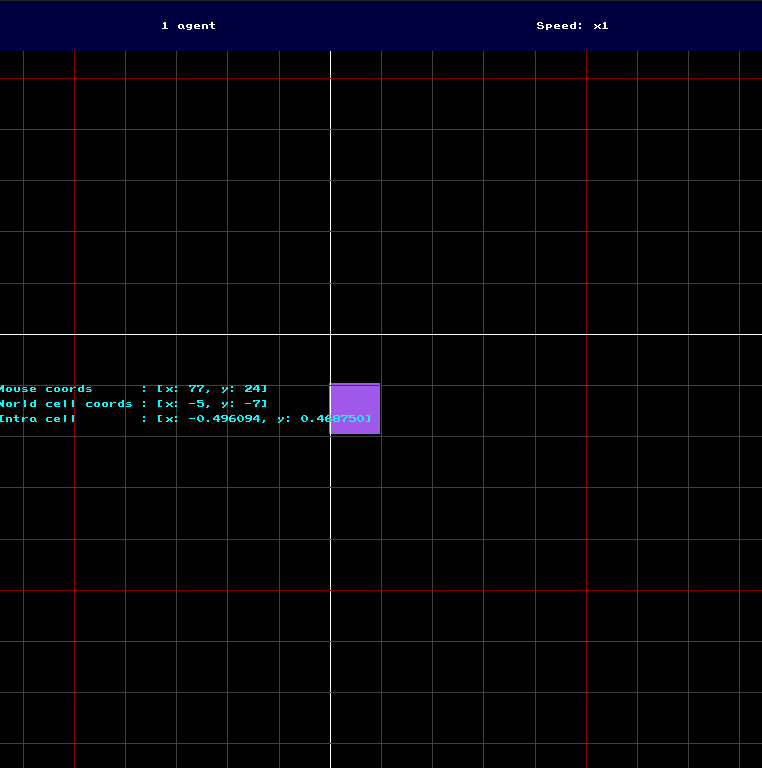
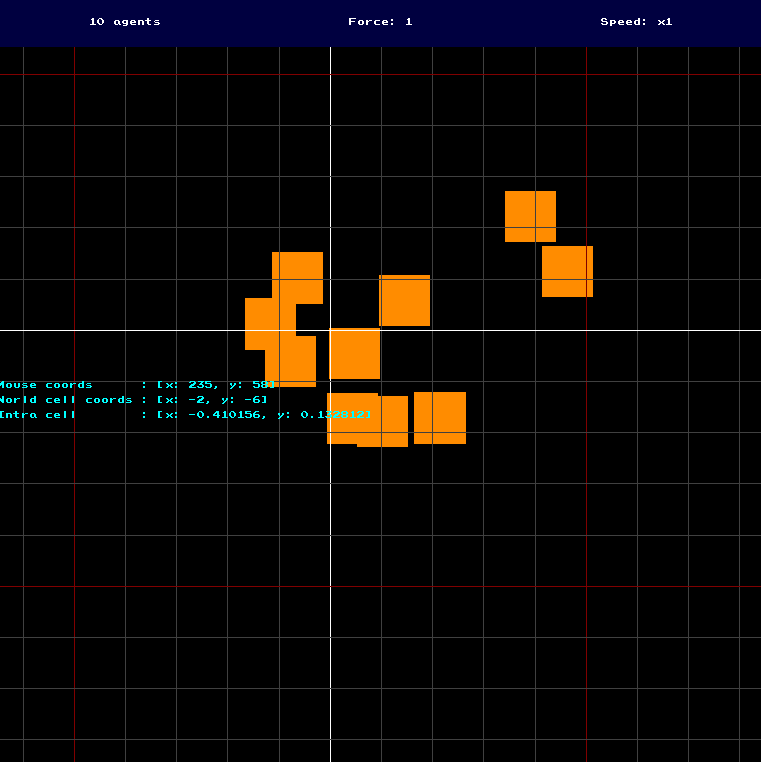
feat: Added attractiveness of elements in the world, the relevant menu and the README section

diff --git a/src/game/Game.cc b/src/game/Game.cc
@@ -10,6 +10,9 @@
 /// @brief - The maximum speed for the simulation.
 # define MAX_SIMULATION_SPEED 8.0f
 
+/// @brief - The maximum attractiveness for any object.
+# define MAX_ATTRACTIVENESS 8.0f
+
 namespace {
 
   pge::MenuShPtr
@@ -50,6 +53,7 @@ namespace pge {
         true,   // disabled
         false,  // terminated
         1.0f,   // speed
+        1.0f,   // attractiveness
       }
     ),
 
@@ -76,10 +80,17 @@ namespace pge {
     olc::vi2d pos;
     olc::vi2d dims(50, STATUS_MENU_HEIGHT);
     m_menus.count = generateMenu(pos, dims, "N/A agent(s)", "count");
+    m_menus.attractiveness = generateMenu(pos, dims, "Force: 1", "force", true);
     m_menus.speed = generateMenu(pos, dims, "Speed: x1", "speed", true);
 
     // Register menus in the parent.
     status->addMenu(m_menus.count);
+    status->addMenu(m_menus.attractiveness);
+    m_menus.attractiveness->setSimpleAction(
+      [this](Game& g) {
+        g.toggleAttractiveness();
+      }
+    );
     status->addMenu(m_menus.speed);
     m_menus.speed->setSimpleAction(
       [this](Game& g) {
@@ -116,8 +127,9 @@ namespace pge {
     }
 
     // Handle the creation of a new object.
-    log("Creating new attractor at " + p.toString(), utils::Level::Info);
-    mas::environment::spawnAttractor(m_env, p);
+    float a = m_state.attractiveness / (MAX_ATTRACTIVENESS - 1.0f);
+    log("Creating new attractor at " + p.toString() + " with force " + std::to_string(a), utils::Level::Info);
+    mas::environment::spawnAttractor(m_env, p, a);
   }
 
   bool
@@ -172,6 +184,27 @@ namespace pge {
   }
 
   void
+  Game::toggleAttractiveness() noexcept {
+    // Only available when the game is not paused.
+    if (m_state.paused) {
+      return;
+    }
+
+    float a = m_state.attractiveness;
+
+    m_state.attractiveness += 2.0f;
+    if (m_state.attractiveness > MAX_ATTRACTIVENESS) {
+      m_state.attractiveness = -MAX_ATTRACTIVENESS + 1.0f;
+    }
+
+    log(
+      "Attractiveness updated from " + std::to_string(a) +
+      " to " + std::to_string(m_state.attractiveness),
+      utils::Level::Info
+    );
+  }
+
+  void
   Game::startSimulation() {
     m_launcher.start();
   }
@@ -213,6 +246,10 @@ namespace pge {
     // Update the speed of the simulation.
     int sp = static_cast<int>(std::round(m_state.speed));
     m_menus.speed->setText("Speed: x" + std::to_string(sp));
+
+    // Update the attractiveness of elements.
+    int at = static_cast<int>(std::round(m_state.attractiveness));
+    m_menus.attractiveness->setText("Force: " + std::to_string(at));
 
     unsigned c = m_env.agents();
     std::string str = std::to_string(c) + " agent";

diff --git a/src/game/simulation/Behaviors.cc b/src/game/simulation/Behaviors.cc
@@ -2,6 +2,7 @@
 # include "Behaviors.hh"
 # include "DirectedPath.hh"
 # include "ForceBased.hh"
+# include "Objects.hh"
 
 namespace mas {
   namespace environment {
@@ -25,20 +26,45 @@ namespace mas {
       // of the perceived objects.
       float cX = data.area.x();
       float cY = data.area.y();
-      unsigned count = 1u;
+      unsigned w = 1u;
 
       for (unsigned id = 0u ; id < perceptions.size() ; ++id) {
+        // Ignore elements with user data as they are most likely
+        // attractors.
+        if (perceptions[id].hasUserData()) {
+          continue;
+        }
+
         cX += perceptions[id].bbox().x();
         cY += perceptions[id].bbox().y();
+        ++w;
+      }
 
-        ++count;
+      // Handle attracting and repelling forces.
+      utils::Vector2f f;
+      for (unsigned id = 0u ; id < perceptions.size() ; ++id) {
+        if (!perceptions[id].hasUserData()) {
+          continue;
+        }
+
+        const Attractor* a = perceptions[id].as<Attractor>();
+
+        // Ignore unknown user data.
+        if (a == nullptr) {
+          continue;
+        }
+
+        utils::Vector2f toAttractor = perceptions[id].bbox().getCenter() - data.area.getCenter();
+        toAttractor.normalize();
+
+        f += a->attractiveness() * toAttractor;
       }
 
       // Compute the average position to reach and generate
       // the influence corresponding to that. We combine a
       // motion to the target and a force based repulsion.
       DirectedPath dp;
-      dp.target = utils::Vector2f(cX / count, cY / count);
+      dp.target = utils::Vector2f(cX / w, cY / w);
       dp.arrivalRadius = 0.01f;
       dp.maxAcceleration = 1.0f;
 
@@ -51,8 +77,8 @@ namespace mas {
 
       InfluenceShPtr inf = std::make_shared<Influence>(
         influence::noOpEmitter(),
-        [f1, f2](MovingObject& obj) {
-          obj.applyForce(f1 + f2);
+        [f, f1, f2](MovingObject& obj) {
+          obj.applyForce(f + f1 + f2);
         }
       );
 

diff --git a/src/game/simulation/Objects.cc b/src/game/simulation/Objects.cc
@@ -5,11 +5,37 @@
 /// @brief - The radius of an attractor.
 # define ATTRACTOR_RADIUS 0.5f
 
+/// @brief - The lifespan of the attractor in seconds.
+# define ATTRACTOR_LIFESPAN_SECOND 60.0f
+
+/// @brief - The scale to apply to the attractiveness.
+# define ATTRACTOR_ATTRACTIVENESS 8.0f
+
 namespace mas {
   namespace environment {
 
+    Attractor::Attractor(float lifespan, float attractiveness) noexcept:
+      m_lifespan(lifespan),
+      m_attractiveness(attractiveness)
+    {}
+
+    float
+    Attractor::attractiveness() const noexcept {
+      return m_attractiveness;
+    }
+
     void
-    spawnAttractor(Environment& env, const utils::Point2f& p) noexcept {
+    Attractor::simulate(const time::Manager& manager) {
+      m_lifespan -= manager.lastStepDuration(time::Unit::Second);
+
+      // In case the lifespan is expired, destroy the entity.
+      if (m_lifespan < 0.0f) {
+        destroyEntity(true);
+      }
+    }
+
+    void
+    spawnAttractor(Environment& env, const utils::Point2f& p, float attractiveness) noexcept {
       // Create the entity.
       utils::Uuid ent = env.createEntity();
 
@@ -23,9 +49,12 @@ namespace mas {
       ComponentShPtr rend = std::make_shared<Renderer>(
         *mo->as<MovingObject>(),
         RenderingMode::Square,
-        olc::BLUE
+        pge::colorGradient(olc::BLUE, olc::CYAN, 0.5f * (1.0f + attractiveness), pge::alpha::AlmostOpaque)
       );
       env.registerComponent(ent, rend);
+
+      ComponentShPtr at = std::make_shared<Attractor>(ATTRACTOR_LIFESPAN_SECOND, ATTRACTOR_ATTRACTIVENESS * attractiveness);
+      env.registerComponent(ent, at);
     }
 
   }

diff --git a/src/game/simulation/Initialization.cc b/src/game/simulation/Initialization.cc
@@ -7,7 +7,7 @@
 
 /// @brief - The desired number of FPS for the launcher that
 /// will simulate the environment.
-# define DESIRED_FPS 10.0f
+# define DESIRED_FPS 80.0f
 
 /// @brief - The decrease in speed due to friction and other
 /// processing at each frame. This value is expressed in m/s2.

diff --git a/src/game/environment/Entity.cc b/src/game/environment/Entity.cc
@@ -46,7 +46,7 @@ namespace mas {
 
       comp->attach(*this);
 
-      log("Registering " + typeToString(comp->type()) + " component to entity");
+      log("Registering " + typeToString(comp->type()) + " component to entity", utils::Level::Verbose);
       m_components.push_back(comp);
     }
 

diff --git a/README.md b/README.md
@@ -692,13 +692,15 @@ It is also possible to add some features based on the key pressed or drag and dr
 
 ## Top banner
 
-The top part of the main view of the application presents a banner which allows to see at a glance how many agents are present in the simulation and to change the speed of the simulation.
+The top part of the main view of the application presents a banner which allows to see at a glance how many agents are present in the simulation and to change things about the simulation.
 
 ![Top banner](resources/top_banner.png)
 
 The number of agents is computed automatically and define how many entities having at least one `Agent` component registered.
 
 The speed controls how fast the runs: by default and as explained in the [initialization](###initialization-of-the-simulation) section the simulation is run with a certain step. The top button defines a multiplier applied to this initial step.
+
+The force controls how attractive or repulsive the elements spawned in the world are to the agents. The value ranges in `[-7; 7]` and represents a scale where`-7` defines the most repulsive object in the world and `7` defines the most attractive object in the world. When the user clicks on the world and spawns an attractor, this value will be used for its attractiveness. The values loop back to the minimum when the maximum value is reached, in a similar pattern to the simulation speed.
 
 ## Environment view
 
@@ -709,6 +711,8 @@ The main view (here presented with the `Debug` option active) allows to visualiz
 By default a grid is displayed allowing to better visualize the coordinates at which agents are.
 
 The agents are displayed using colored squares and the user can pan and zoom in and out of the view as they see fit. Zooming is done by scrolling the mouse wheel and panning by dragging the mouse while holding the right mouse button.
+
+Whenever the user clicks with the left mouse in the world (and provided the simulation is paused or stopped), a new attractor will be spawned at the location of the mouse. This attractor will be considered by the agents to either be attracted or repulsed from the location.
 
 ## Controls
 
